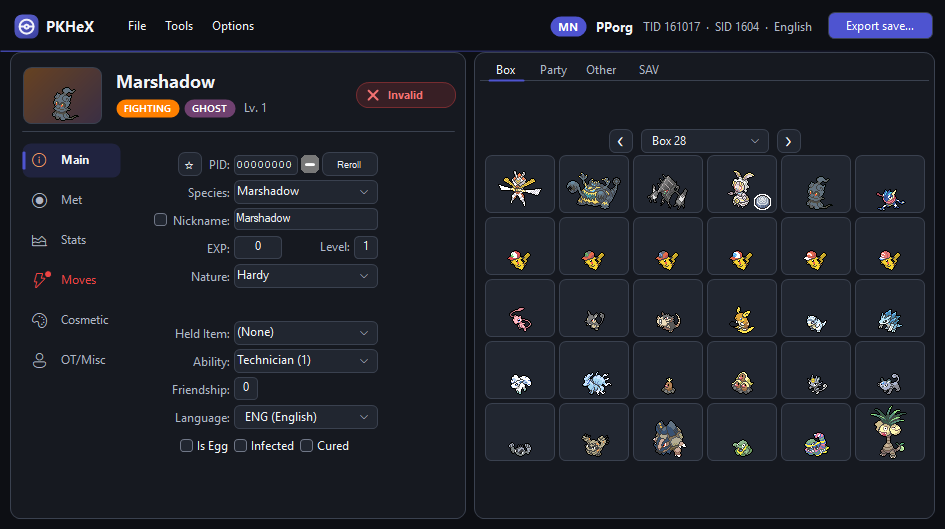
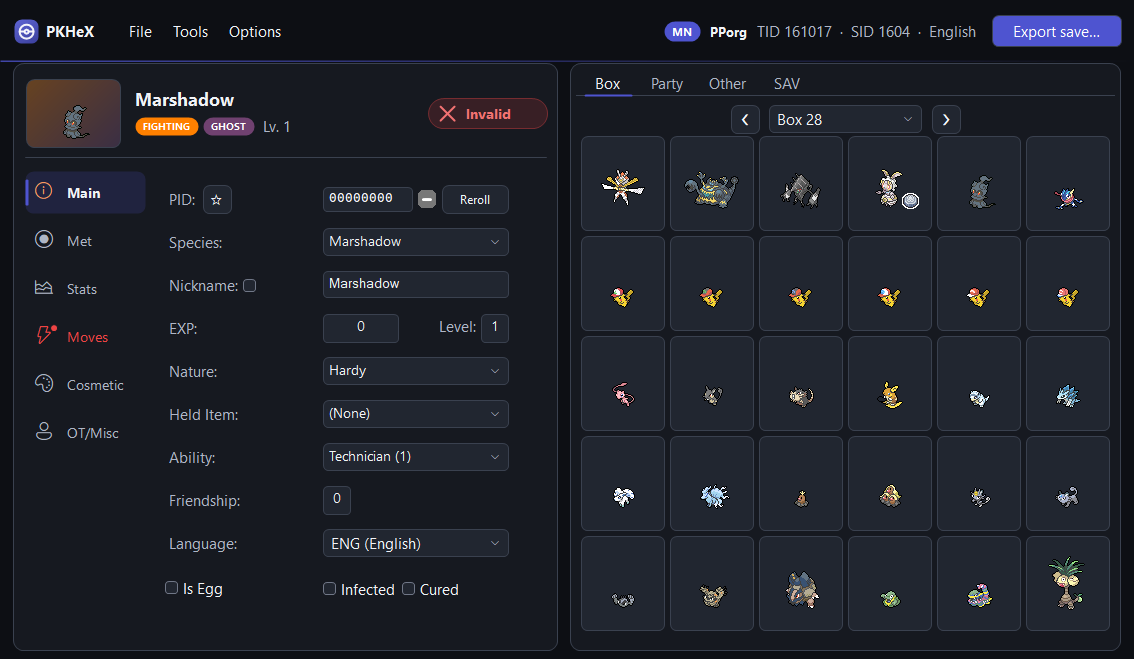
Updated screenshots, download section, theme the main window before first-run popups

diff --git a/PKHeX.WinForms/Theming/Theme.cs b/PKHeX.WinForms/Theming/Theme.cs
@@ -188,7 +188,10 @@ public static class Theme
         Changed?.Invoke(null, EventArgs.Empty);
     }
 
-    private static void OnIdleHookForms(object? sender, EventArgs e)
+    private static void OnIdleHookForms(object? sender, EventArgs e) => HookOpenForms();
+
+    /// <summary> Themes every open form that is not themed yet (normally done on the first idle after it opens). </summary>
+    public static void HookOpenForms()
     {
         // Application.OpenForms spans threads; skip forms on other UI threads.
         foreach (Form f in Application.OpenForms)

diff --git a/PKHeX.WinForms/Program.cs b/PKHeX.WinForms/Program.cs
@@ -84,6 +84,7 @@ internal static class Program
         {
             Task.Run(() => splash?.BeginInvoke(splash.ForceClose));
             main.Activate();
+            Theme.HookOpenForms(); // before any popup: a modal box would hold off the idle pass that themes the window
 
             // Follow-up: display popups if needed.
             if (init.HaX)

diff --git a/README.md b/README.md
@@ -4,6 +4,10 @@ A fork of [hexbyt3/PKHeXth](https://github.com/hexbyt3/PKHeXth) (itself a fork o
 
 ![License](https://img.shields.io/badge/License-GPLv3-blue.svg)
 
+## Download
+
+Grab **PKHeX.exe** from the [latest release](https://github.com/AmarilloNL/PKHeXth/releases/latest). It's a single self-contained file for 64-bit Windows: no install and no .NET runtime needed. Put it in its own folder (it keeps its settings, backups and databases next to itself) and run it.
+
 ![Main window, dark theme](.github/screenshots/main-dark.png)
 
 | Light theme | Save tools |
@@ -71,6 +75,8 @@ PKHeX is a Windows Forms application which requires [.NET 10.0](https://dotnet.m
 ```
 dotnet build PKHeX.WinForms/PKHeX.WinForms.csproj -c Release
 ```
+
+To make the single-file download yourself: `dotnet publish PKHeX.WinForms/PKHeX.WinForms.csproj -c Release -r win-x64 -p:SelfContained=true -p:EnableCompressionInSingleFile=true`.
 
 The executable can be built with any compiler that supports C# 13. It can also be opened in [Visual Studio](https://visualstudio.microsoft.com/downloads/) via the .sln or .csproj file. Use the Debug or Release configuration; there isn't any platform specific code to worry about.
 
